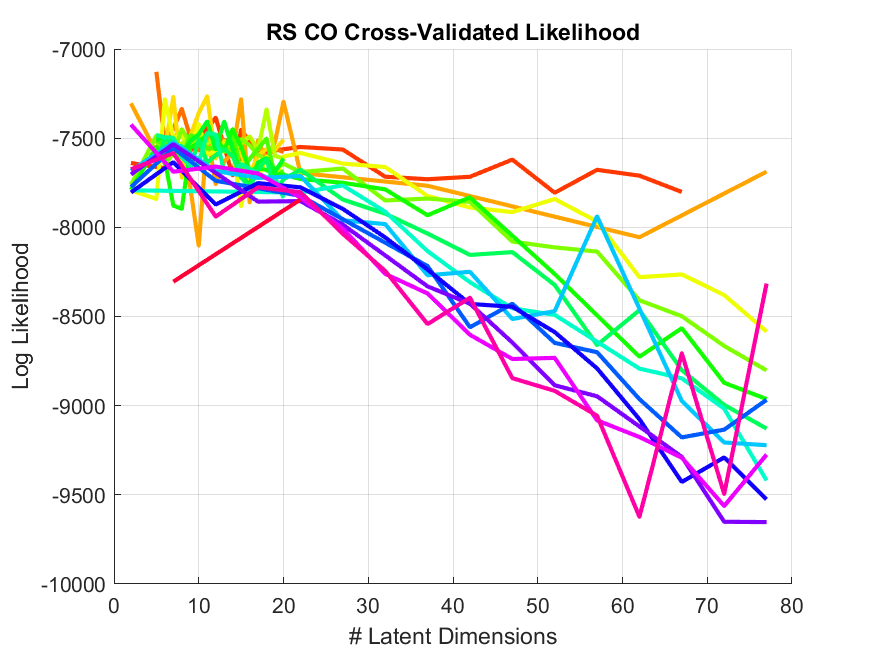
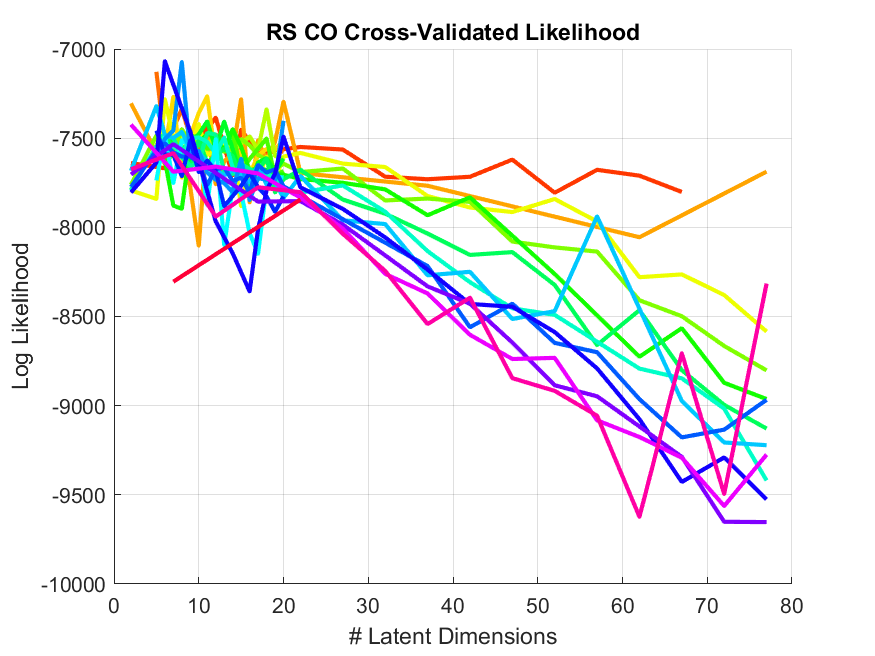
csv madness

Changed region(s): [[0.1543, 0.0915, 0.3394, 0.4573]]

diff --git a/code/python_switching_models/ll_csv_to_plot.m b/code/python_switching_models/ll_csv_to_plot.m
@@ -87,12 +87,13 @@ x = focused_state_range;
 y = [];
 state_count = 1;
 for iState = focused_state_range
-    y(state_count,:) = bits_per_spike(10,iState);
+    y(state_count,:) = bits_per_spike(5:20,iState);
     state_count = state_count + 1;
 end
 state_mean_across_dims = mean(y,2,'omitnan');
 figure; hold on;
 plot(x,state_mean_across_dims,'-o','LineWidth',2);
+plot(x,y','.')
 set(gcf,"Color","w")
 title(strcat(meta.subject," ",meta.task," Cross-Validated Likelihood"))
 xlabel("# Discrete States")
